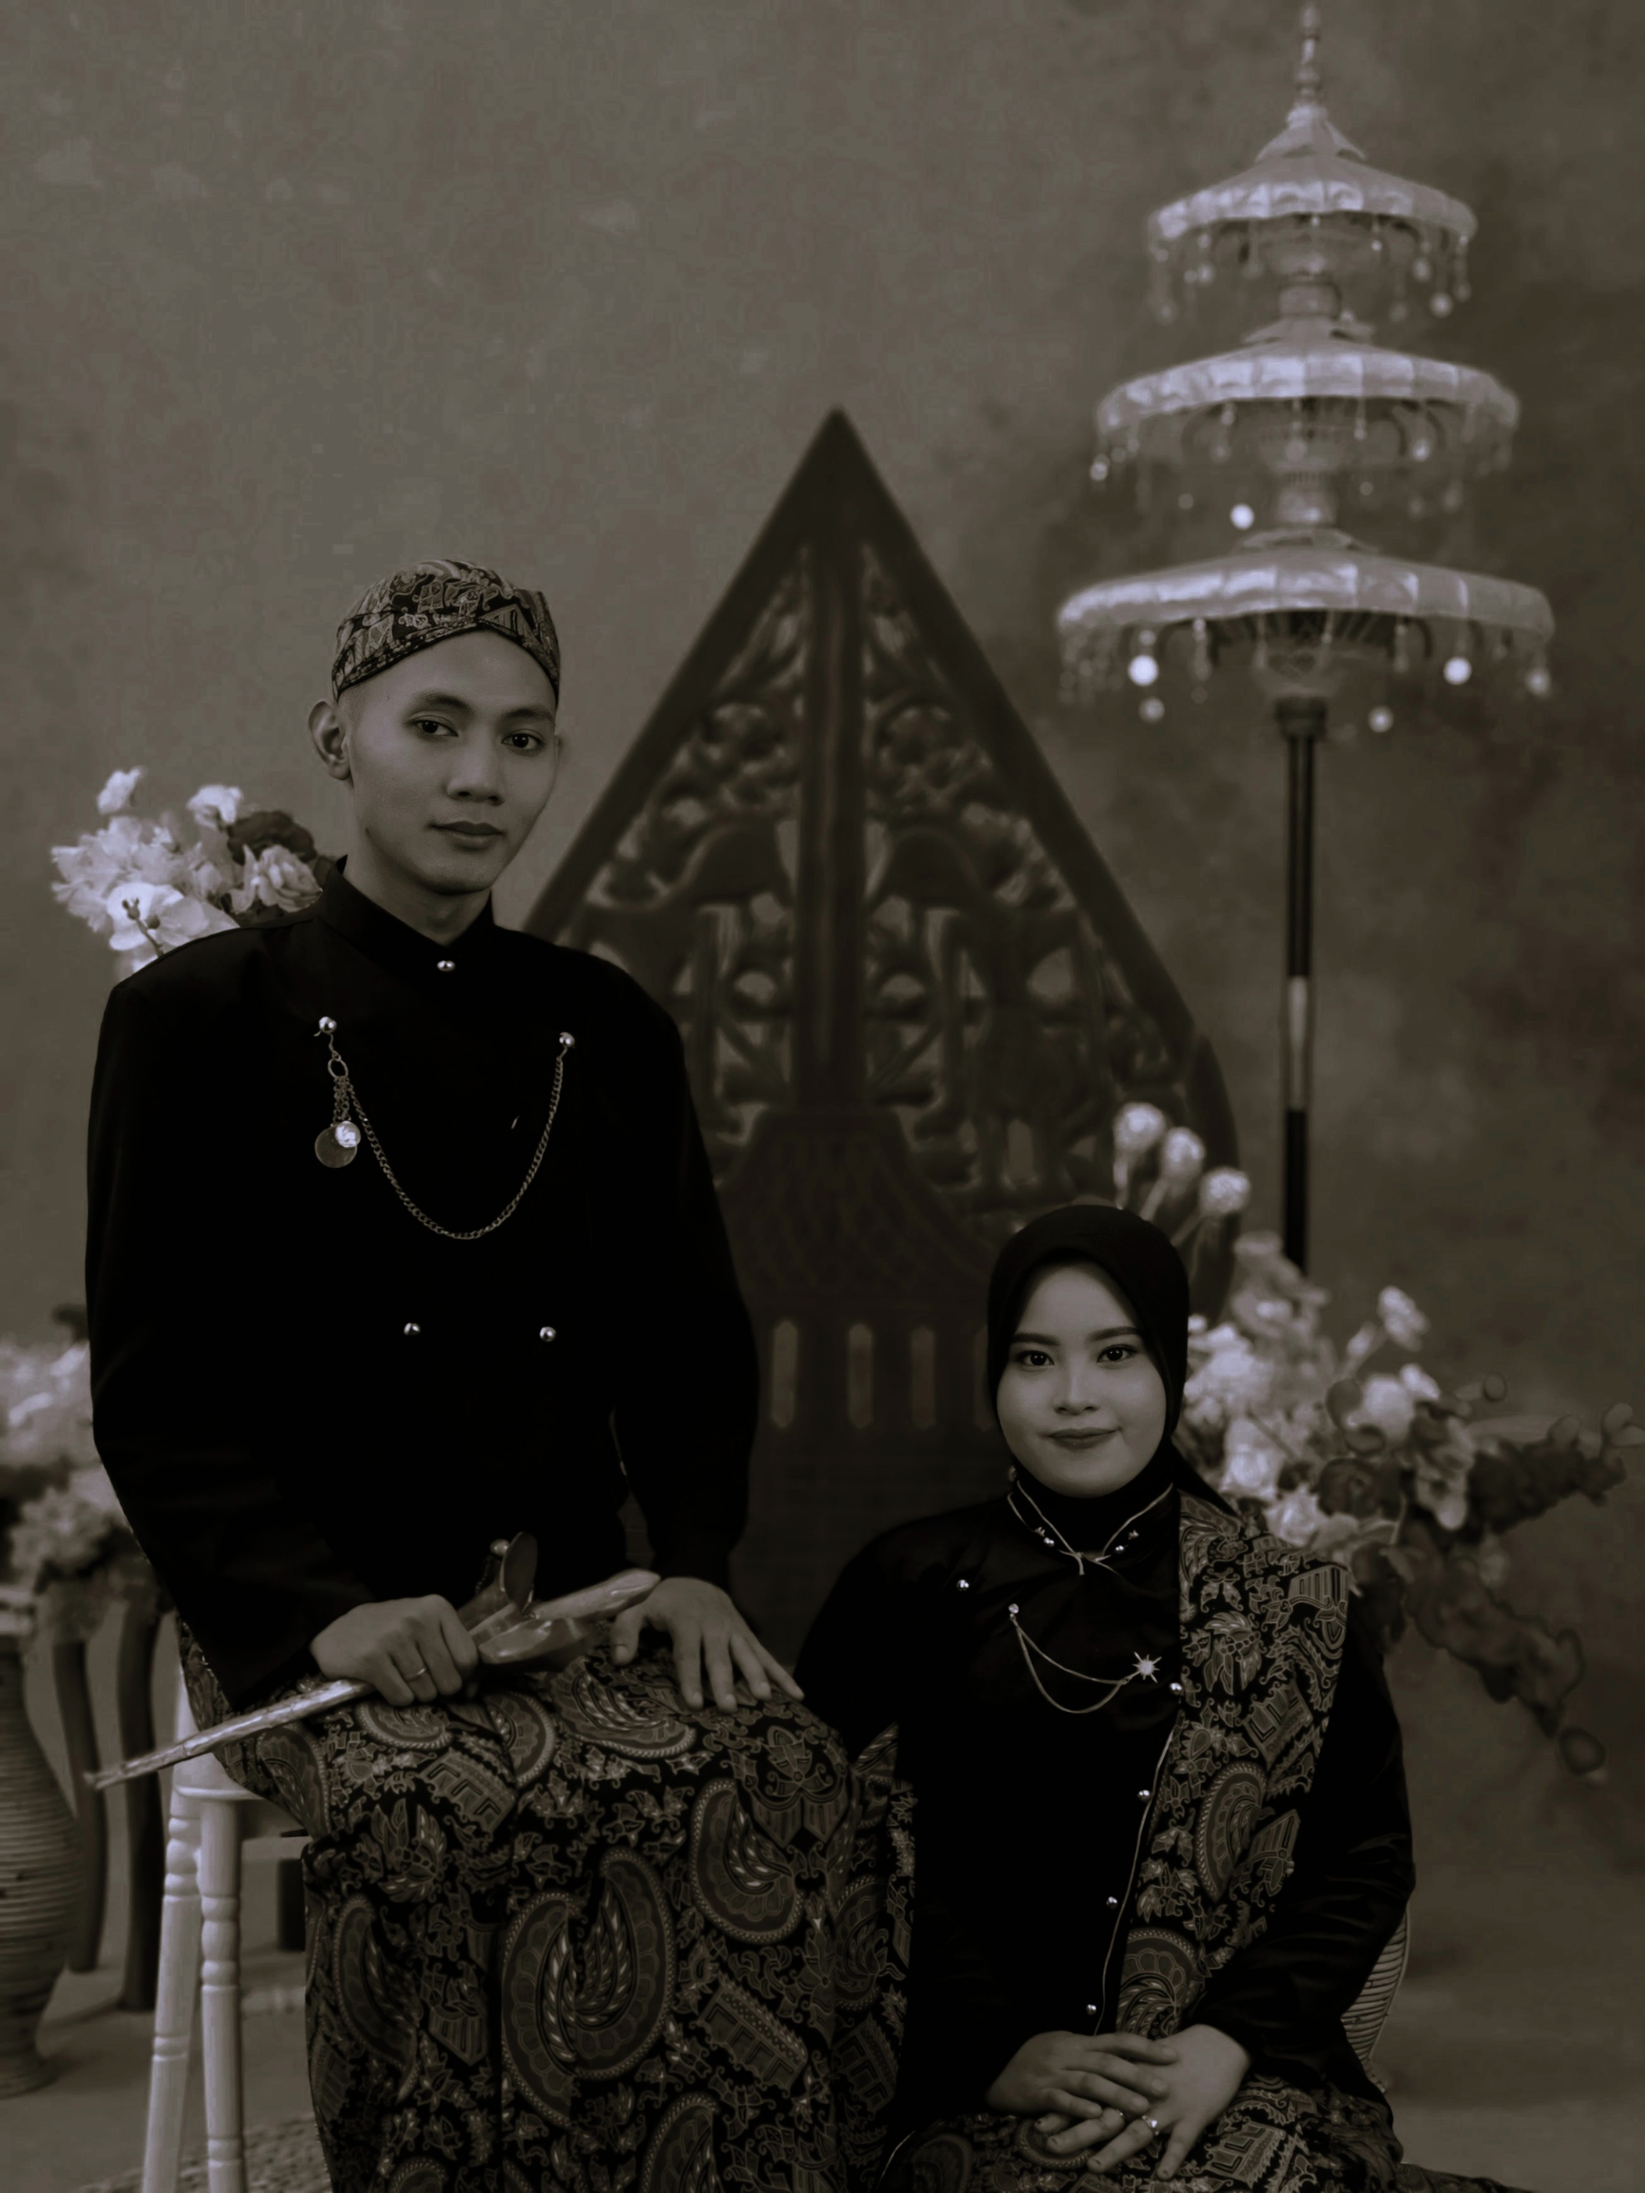
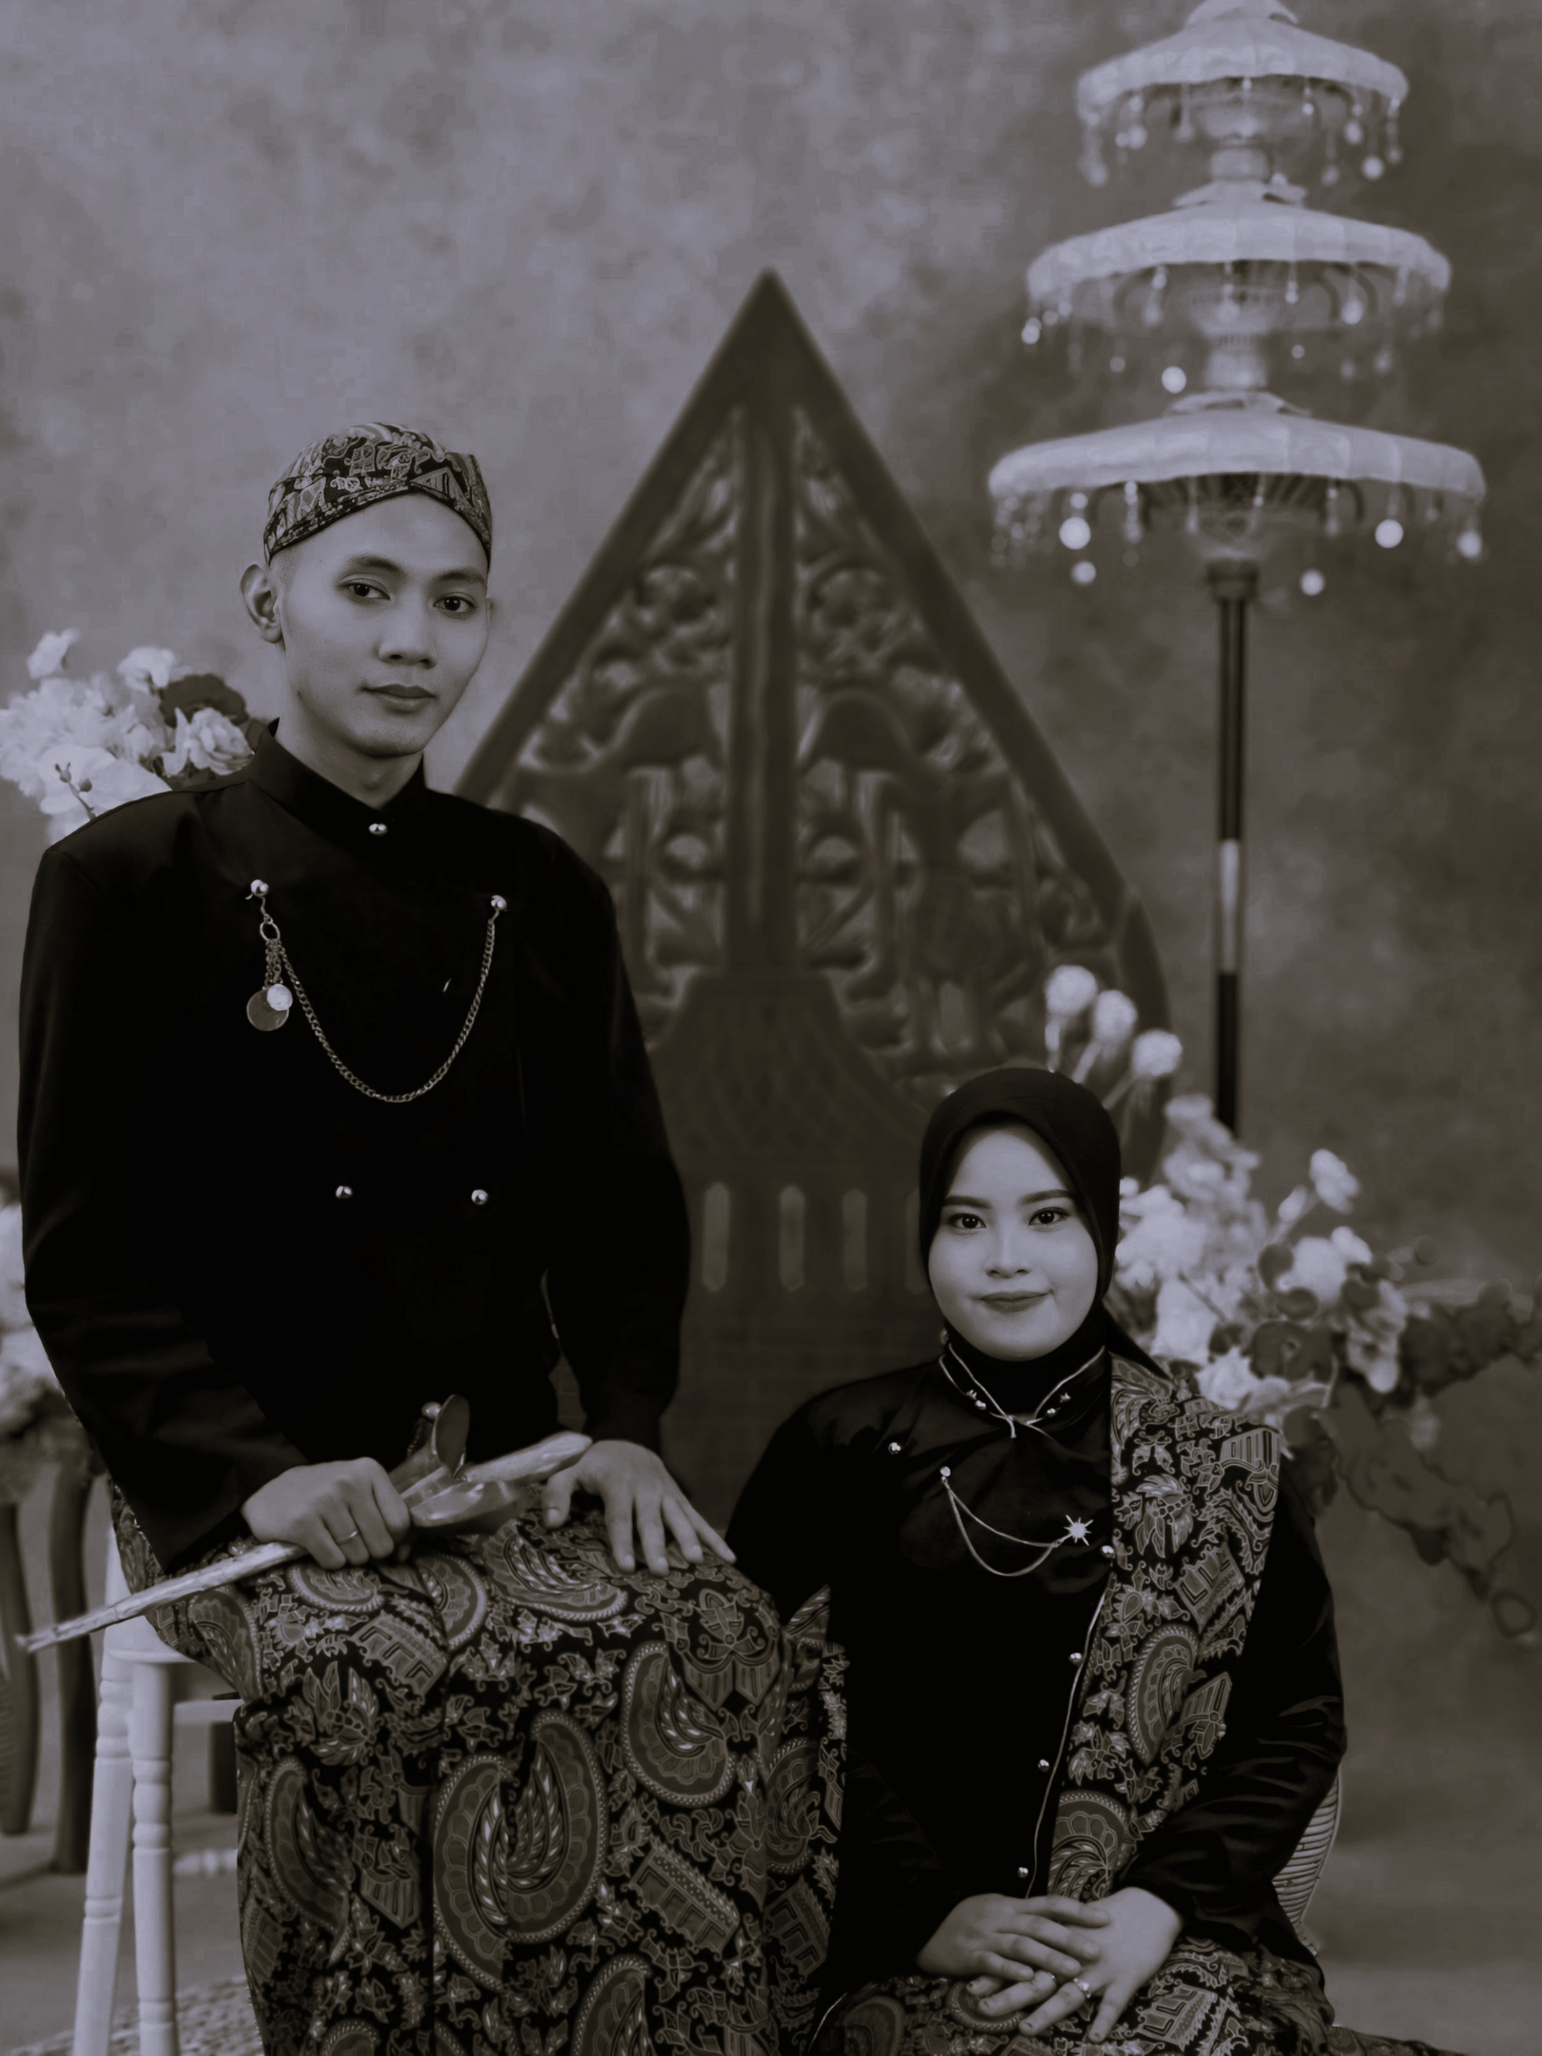
update foto prewed

diff --git a/index.html b/index.html
@@ -1241,13 +1241,13 @@
                       data-animation="animate__zoomIn animate__slower" style="width: 50%; height: 100%">
                       <div class="light" style="overflow: hidden; width: initial; height: 100%;"><img
                           src="images/prewed-2-bw.JPG" alt="Prewedding" class="lightbox"
-                          style="width: 100%; height: 300px; object-fit: cover;"></div>
+                          style="width: 100%; min-height: 300px; object-fit: contain;"></div>
                     </div>
                     <div class="animate__animated animate__zoomIn animate__slower"
                       data-animation="animate__zoomIn animate__slower" style="width: 50%; height: 100%">
                       <div class="light" style="overflow: hidden; width: initial; height: fit-content;"><img
                           src="images/prewed-5-bw.JPG" alt="Prewedding" class="lightbox"
-                          style="width: 100%; height: 300px; object-fit: cover;"></div>
+                          style="width: 100%; min-height: 300px; object-fit: contain;"></div>
                     </div>
                   </div>
                   <!--
@@ -1389,9 +1389,9 @@
                               style="position: absolute; width: 1px; background-color: rgb(161, 119, 18); top: 0px; bottom: 0px; left: 30%; border-radius: 0.5rem;">
                             </div>
                           </div>
-                          <div style="width: auto; height: 100%; border-radius: 0.5rem; overflow: hidden;">
+                          <div style="width: auto; height: 100%; border-radius: 0.5rem;">
                             <img src="images/logo-bni.png" alt="logo-bca-biru"
-                              style="height: 50px; width: auto; object-fit: cover;">
+                              style="height: 43px; width: auto; object-fit: cover;">
                           </div>
                         </div>
                         <div class="account-number editable font-weight-bold"
